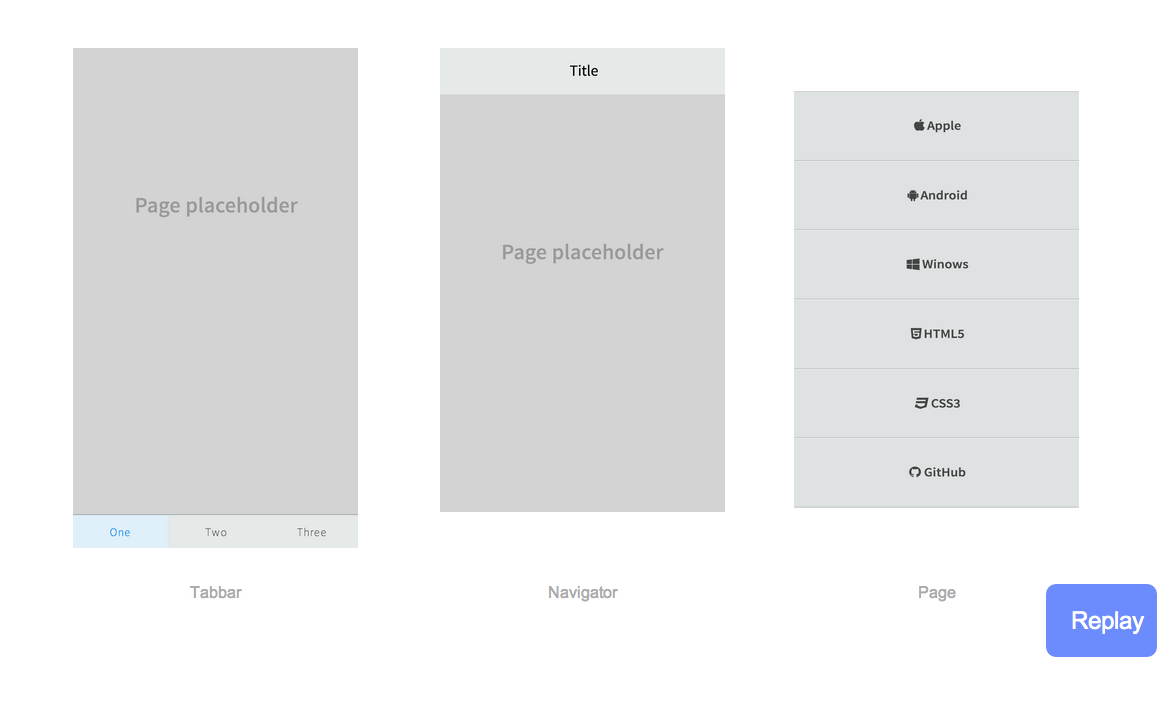
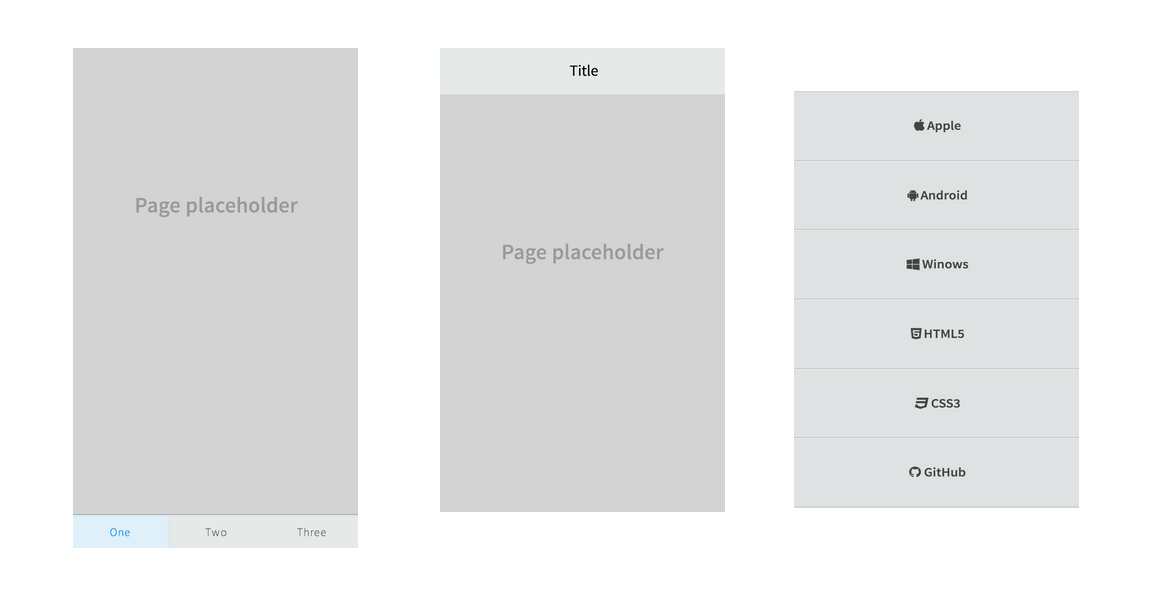
add navigator animation, and add more content to how it work page

diff --git a/src/documents/how_it_works/en/tabbar_navigator_page_animation/edge2_edgePreload.js b/src/documents/how_it_works/en/tabbar_navigator_page_animation/edge2_edgePreload.js
@@ -1,0 +1,16 @@
+
+window.AdobeEdge=window.AdobeEdge||{};if(!AdobeEdge.yepnope){(function(a,b,c){function d(a){return"[object Function]"==o.call(a)}function e(a){return"string"==typeof a}function f(){}function g(a){return!a||"loaded"==a||"complete"==a||"uninitialized"==a}function h(){var a=p.shift();q=1,a?a.t?m(function(){("c"==a.t?B.injectCss:B.injectJs)(a.s,0,a.a,a.x,a.e,1)},0):(a(),h()):q=0}function i(a,c,d,e,f,i,j){function k(b){if(!o&&g(l.readyState)&&(u.r=o=1,!q&&h(),l.onload=l.onreadystatechange=null,b)){"img"!=a&&m(function(){t.removeChild(l)},50);for(var d in y[c])y[c].hasOwnProperty(d)&&y[c][d].onload()}}var j=j||B.errorTimeout,l=b.createElement(a),o=0,r=0,u={t:d,s:c,e:f,a:i,x:j};1===y[c]&&(r=1,y[c]=[]),"object"==a?l.data=c:(l.src=c,l.type=a),l.width=l.height="0",l.onerror=l.onload=l.onreadystatechange=function(){k.call(this,r)},p.splice(e,0,u),"img"!=a&&(r||2===y[c]?(t.insertBefore(l,s?null:n),m(k,j)):y[c].push(l))}function j(a,b,c,d,f){return q=0,b=b||"j",e(a)?i("c"==b?v:u,a,b,this.i++,c,d,f):(p.splice(this.i++,0,a),1==p.length&&h()),this}function k(){var a=B;return a.loader={load:j,i:0},a}var l=b.documentElement,m=a.setTimeout,n=b.getElementsByTagName("script")[0],o={}.toString,p=[],q=0,r="MozAppearance"in l.style,s=r&&!!b.createRange().compareNode,t=s?l:n.parentNode,l=a.opera&&"[object Opera]"==o.call(a.opera),l=!!b.attachEvent&&!l,u=r?"object":l?"script":"img",v=l?"script":u,w=Array.isArray||function(a){return"[object Array]"==o.call(a)},x=[],y={},z={timeout:function(a,b){return b.length&&(a.timeout=b[0]),a}},A,B;B=function(a){function b(a){var a=a.split("!"),b=x.length,c=a.pop(),d=a.length,c={url:c,origUrl:c,prefixes:a},e,f,g;for(f=0;f<d;f++)g=a[f].split("="),(e=z[g.shift()])&&(c=e(c,g));for(f=0;f<b;f++)c=x[f](c);return c}function g(a,e,f,g,h){var i=b(a),j=i.autoCallback;i.url.split(".").pop().split("?").shift(),i.bypass||(e&&(e=d(e)?e:e[a]||e[g]||e[a.split("/").pop().split("?")[0]]),i.instead?i.instead(a,e,f,g,h):(y[i.url]?i.noexec=!0:y[i.url]=1,f.load(i.url,i.forceCSS||!i.forceJS&&"css"==i.url.split(".").pop().split("?").shift()?"c":c,i.noexec,i.attrs,i.timeout),(d(e)||d(j))&&f.load(function(){k(),e&&e(i.origUrl,h,g),j&&j(i.origUrl,h,g),y[i.url]=2})))}function h(a,b){function c(a,c){if(a){if(e(a))c||(j=function(){var a=[].slice.call(arguments);k.apply(this,a),l()}),g(a,j,b,0,h);else if(Object(a)===a)for(n in m=function(){var b=0,c;for(c in a)a.hasOwnProperty(c)&&b++;return b}(),a)a.hasOwnProperty(n)&&(!c&&!--m&&(d(j)?j=function(){var a=[].slice.call(arguments);k.apply(this,a),l()}:j[n]=function(a){return function(){var b=[].slice.call(arguments);a&&a.apply(this,b),l()}}(k[n])),g(a[n],j,b,n,h))}else!c&&l()}var h=!!a.test,i=a.load||a.both,j=a.callback||f,k=j,l=a.complete||f,m,n;c(h?a.yep:a.nope,!!i),i&&c(i)}var i,j,l=this.yepnope.loader;if(e(a))g(a,0,l,0);else if(w(a))for(i=0;i<a.length;i++)j=a[i],e(j)?g(j,0,l,0):w(j)?B(j):Object(j)===j&&h(j,l);else Object(a)===a&&h(a,l)},B.addPrefix=function(a,b){z[a]=b},B.addFilter=function(a){x.push(a)},B.errorTimeout=1e4,null==b.readyState&&b.addEventListener&&(b.readyState="loading",b.addEventListener("DOMContentLoaded",A=function(){b.removeEventListener("DOMContentLoaded",A,0),b.readyState="complete"},0)),a.yepnope=k(),a.yepnope.executeStack=h,a.yepnope.injectJs=function(a,c,d,e,i,j){var k=b.createElement("script"),l,o,e=e||B.errorTimeout;k.src=a;for(o in d)k.setAttribute(o,d[o]);c=j?h:c||f,k.onreadystatechange=k.onload=function(){!l&&g(k.readyState)&&(l=1,c(),k.onload=k.onreadystatechange=null)},m(function(){l||(l=1,c(1))},e),i?k.onload():n.parentNode.insertBefore(k,n)},a.yepnope.injectCss=function(a,c,d,e,g,i){var e=b.createElement("link"),j,c=i?h:c||f;e.href=a,e.rel="stylesheet",e.type="text/css";for(j in d)e.setAttribute(j,d[j]);g||(n.parentNode.insertBefore(e,n),m(c,0))}})(this,document);AdobeEdge.yepnope=window.yepnope;}
+(function(compId){var htFallbacks;var testEle=document.createElement("div");function isSupported(a){var d=testEle.style,e;for(i=0;i<a.length;i++)if(e=a[i],d[e]!==void 0)return!0;return!1}function supportsRGBA(){testEle.cssText="background-color:rgba(150,255,150,.5)";if((""+testEle.style.backgroundColor).indexOf("rgba")==0)return!0;return!1}
+var hasTransform=isSupported(["transformProperty","WebkitTransform","MozTransform","OTransform","msTransform"]),hasSVG=!!document.createElementNS&&!!document.createElementNS("http://www.w3.org/2000/svg","svg").createSVGRect,hasRGBA=supportsRGBA(),hasJSON=window.JSON&&window.JSON.parse&&window.JSON.stringify,readyToPlay=!1;function safeColor(a){a=""+a;if(!hasRGBA&&a.indexOf("rgba")==0){var d=a.lastIndexOf(",");d>0&&(a="rgb("+a.substring(5,d)+")")}return a}
+AdobeEdge._preloaders=AdobeEdge._preloaders||[];AdobeEdge._preloaders.push(function(){filesToLoad&&(loadResources(filesToLoad),filesToLoad=void 0)});function doLoadResources(){for(var a=0;a<AdobeEdge._preloaders.length;a++)AdobeEdge._preloaders[a]()}AdobeEdge._readyplayers=AdobeEdge._readyplayers||[];AdobeEdge._readyplayers.push(function(){readyToPlay&&AdobeEdge.okToLaunchComposition(compId)});function playWhenReady(){AdobeEdge._playWhenReady=!0;for(var a=0;a<AdobeEdge._readyplayers.length;a++)AdobeEdge._readyplayers[a]()}function edgeCallback(a){htFallbacks[a]&&(a=htFallbacks[a]);AdobeEdge.preload.got[a]=!0;if(a==AdobeEdge.preload.last)!AdobeEdge.bootstrapLoading||AdobeEdge._playWhenReady?AdobeEdge.okToLaunchComposition(compId):readyToPlay=!0,AdobeEdge.preload.busy=!1,AdobeEdge.preload.q.length>0&&(a=AdobeEdge.preload.q.pop(),AdobeEdge.requestResources(a.files,a.callback))}
+AdobeEdge.requestResources=AdobeEdge.requestResources||function(a,d){AdobeEdge.yepnope.errorTimeout=4E3;AdobeEdge.preload.busy=!0;AdobeEdge.preload.got=AdobeEdge.preload.got||{};var e,b=a.length,h=[],c;for(e=0;e<b;e++){c=a[e];if(typeof c==="string")url=c,c={load:url};else if(url=c.yep||c.load,c.callback){var k=c.callback;c.callback=function(a,b,c){k(a,b,c)&&d(a,b,c)}}if(!c.callback)c.callback=d;if(!AdobeEdge.preload.got[url])h.push(c),AdobeEdge.preload.last=url}h.length&&AdobeEdge.yepnope(h)};var filesToLoad,dlContent,preContent,doDelayLoad,signaledLoading,loadingEvt,requiresSVG,htLookup={},aLoader,aEffectors;function loadResources(a,d){AdobeEdge.preload=AdobeEdge.preload||[];AdobeEdge.preload.q=AdobeEdge.preload.q||[];d||!isCapable()?filesToLoad=a:AdobeEdge.preload.busy?AdobeEdge.preload.q.push({files:a,callback:edgeCallback}):AdobeEdge.requestResources(a,edgeCallback)}
+function splitUnits(a){var d={};d.num=parseFloat(a);if(typeof a=="string")d.units=a.match(/[a-zA-Z%]+$/);if(d.units&&typeof d.units=="object")d.units=d.units[0];return d}function defaultUnits(a){var d=a;if(a!=="auto"&&(a=splitUnits(a),!a||!a.units))d+="px";return d}function findNWC(a,d){if(String(a.className).indexOf(d)!=-1)return a;for(var e=a.childNodes,b=0;b<e.length;b++){var h=findNWC(e[b],d);if(h!=!1)return h}return!1}
+function simpleContent(a,d,e){var b=document.getElementsByTagName("body")[0],e=e||findNWC(b,compId),h,c,k,g;if(e){if(e.style.position!="absolute"&&e.style.position!="relative")e.style.position="relative"}else e=b;for(var m=0;m<a.length;m++){b=a[m];b.type=="image"?(h=document.createElement("img"),h.src=b.fill[1]):h=document.createElement("div");h.id=b.id;g=h.style;if(b.type=="text"){if(c=b.font){if(c[0]&&c[0]!=="")g.fontFamily=c[0];typeof c[1]!="object"&&(c[1]=[c[1]]);c[1][1]||(c[1][1]="px");if(c[1][0]&&c[1][0]!=="")g.fontSize=c[1][0]+c[1][1];if(c[2]&&c[2]!=="")g.color=safeColor(c[2]);if(c[3]&&c[3]!=="")g.fontWeight=c[3];if(c[4]&&c[4]!=="")g.textDecoration=b.font[4];if(c[5]&&c[5]!=="")g.fontStyle=b.font[5]}if(b.align&&b.align!="auto")g.textAlign=b.align;if(b.position)g.position=b.position;if((!b.rect[2]||b.rect[2]<=0)&&(!b.rect[3]||b.rect[3]<=0))g.whiteSpace="nowrap";h.innerHTML=b.text}if(d)h.className=d;g.position="absolute";c=b.rect[0];k=b.rect[1];if(b.transform&&b.transform[0]){var j=b.transform[0][0],f=splitUnits(j);if(f&&f.units&&(j=f.num,f.units=="%"&&b.rect[2])){var f=b.rect[2],l=splitUnits(b.rect[2]);if(l&&l.units)f=l.num,l.units=="%"&&(f=f/100*e.offsetWidth);j=j/100*f;e.offsetWidth>0&&(j=j/e.offsetWidth*100)}if(f=splitUnits(c))c=f.num;c+=j;if(!f.units)f.units="px";c+=f.units;if(b.transform[0].length>1){j=b.transform[0][1];if((f=splitUnits(j))&&f.units)if(j=f.num,f.units=="%"&&b.rect[3]){f=b.rect[3];if((l=splitUnits(b.rect[3]))&&l.units)f=l.num,l.units=="%"&&(f=f/100*e.offsetHeight);j=j/100*f;e.offsetHeight>0&&(j=j/e.offsetHeight*100)}if(f=splitUnits(k))k=f.num;k+=j;if(!f.units)f.units="px";k+=f.units}}g.left=defaultUnits(c);g.top=defaultUnits(k);g.width=defaultUnits(b.rect[2]);g.height=defaultUnits(b.rect[3]);if(b.linkURL)htLookup[h.id]=b,h.onclick=function(){var a=htLookup[this.id];a.linkTarget?window.open(a.linkURL,a.linkTarget):window.location.href=a.linkURL},g.cursor="pointer";e.appendChild(h);if(b.c)for(g=0;g<b.c.length;g++)simpleContent(b.c[g],d,h)}}
+var fnCycle=function(a){a?fnCycle&&setTimeout(fnCycle,20):a={event:"loading",progress:0};loadingEvt&&loadingEvt(a)},aBootcompsLoaded=[];if(!window.AdobeEdge.bootstrapListeners)window.AdobeEdge.bootstrapListeners=[];window.AdobeEdge.bootstrapCallback=function(a){window.AdobeEdge.bootstrapListeners.push(a);if(aBootcompsLoaded.length>0)for(var d=0;d<aBootcompsLoaded.length;d++)a(aBootcompsLoaded[d])};if(!window.AdobeEdge.preloadComplete)window.AdobeEdge.preloadComplete={};window.AdobeEdge.preloadComplete[compId]=function(a){AdobeEdge.$_(".edgePreload"+a).css("display","none");fnCycle=null;loadingEvt&&loadingEvt({event:"done",progress:1,reason:"complete"});aBootcompsLoaded.push(a);for(var d=window.AdobeEdge.bootstrapListeners.length,e=0;e<d;e++)try{window.AdobeEdge.bootstrapListeners[e](a)}catch(b){console.log("bootstrap error "+b)}};function isCapable(){if(hasTransform){if(requiresSVG&&!hasSVG)return!1;return!0}return!1}
+function onDocLoaded(){window.AdobeEdge.loaded=!0;fnCycle({event:"begin"});isCapable()?(preContent&&preContent.dom&&simpleContent(preContent.dom,"edgePreload"+compId),filesToLoad&&!signaledLoading&&(loadResources(filesToLoad),filesToLoad=void 0)):dlContent&&dlContent.dom&&(loadingEvt&&loadingEvt({event:"done",progress:1,reason:"downlevel"}),simpleContent(dlContent.dom))};window.AdobeEdge=window.AdobeEdge||{};window.AdobeEdge.framework='jquery';if(document.addEventListener){window.addEventListener("load",onDocLoaded,false);}else if(document.attachEvent){window.attachEvent("onload",onDocLoaded);}
+requiresSVG=false;doDelayLoad=false;htFallbacks={"edge_includes/jquery-1.7.1.min.js":"http://ajax.googleapis.com/ajax/libs/jquery/1.7.1/jquery.min.js","edge_includes/edge.2.0.1.min.js":"http://download.adobe.com/pub/adobe/edge/animate/2.0.1/edge.2.0.1.min.js"};aLoader=[{load:"http://ajax.googleapis.com/ajax/libs/jquery/1.7.1/jquery.min.js",callback:function(result,key){if(!window.jQuery){yepnope({load:"edge_includes/jquery-1.7.1.min.js",callback:edgeCallback});return false;}return true;}},{load:"http://download.adobe.com/pub/adobe/edge/animate/2.0.1/edge.2.0.1.min.js",callback:function(result,key){if(!window.AdobeEdge){yepnope({load:"edge_includes/edge.2.0.1.min.js",callback:edgeCallback});return false;}return true;}},{load:"edge2_edge.js"},{load:"edge2_edgeActions.js"}];if(AdobeEdge.bootstrapLoading){signaledLoading=true;AdobeEdge.loadResources=doLoadResources;AdobeEdge.playWhenReady=playWhenReady;}
+loadResources(aLoader,doDelayLoad);preContent={dom:[]};
+//simpleContent
+dlContent={dom:[]};
+//simpleContent
+})("EDGE-25584987");

diff --git a/src/documents/how_it_works/en/navigator_animation/navigator_edge.js b/src/documents/how_it_works/en/navigator_animation/navigator_edge.js
@@ -1,0 +1,2 @@
+
+(function($,Edge,compId){var _=null,y=true,n=false,x22='rgba(108,139,252,1.00)',e43='${_navigator_added_title_code}',x1='2.0.1',e47='${_Rectangle4}',a='Base State',x36='hidden',e56='${_page1html}',s='style',x26='13',x3='2.0.1.268',e30='${_Next}',x33='rgba(192,192,192,1)',e40='${_nav_title_highlight}',lf='left',bg='background-color',e49='${_page2html}',fs='font-size',tp='top',ta='text-align',xc='rgba(0,0,0,1)',x29='stage',t='transform',e41='${__32page_1}',c='color',x4='rgba(0,0,0,0)',x14='rgba(248,235,77,1)',g='image',x13='rgba(248,235,77,1.00)',e48='${_page_1_codeCopy}',x7='17',x28='19',x='text',e55='${_Text}',e51='${_navigator_added_title_codeCopy}',m='rect',e54='${_popPage}',e53='${__1navigator_no_title}',x2='2.0.0',e52='${_Rectangle3}',e50='${_nav_code_title_highlight}',e58='${_page_1_code}',x38='rgba(192,192,192,1.00)',e45='${_navigator_code}',e44='${_Toolbar_title}',p='px',x32='pointer',e42='${_Text5}',o='opacity',dt='Default Timeline',e39='${_NextBox}',e46='${_Rectangle}',x8='Arial, Helvetica, sans-serif',rz='rotateZ',l='normal',ov='overflow',po='center',e35='${_Stage}',x34='rgba(255,255,255,1)',x31='rgba(255,255,255,1.00)',w='width',e57='${__4page_2}',x24='24',ql='linear',i='none',e37='${_indexhtml}',r='deg',h='height';var im='images/';var g5='navigator_no_title.png',g19='page_2.png',g18='page_1.png';var s10="&lt;ons-navigator title=\"Page 1\" <br>page=\"page1.html\"/&gt;",s17="page2.html",s25="Page 1",s9="&lt;ons-navigator title=\"Page 1\" /&gt;",s27="&lt;",s6="&lt;ons-navigator /&gt;",s11="&lt;h2&gt;Hi I am Page 1&lt;/h2&gt;",s20="ons.navigator.pushPage<br>('page2.html', 'Page 2');",s23="1. Create Navigator",s16="page1.html",s15="index.html",s12="&lt;h2&gt;Hi I am Page 2&lt;/h2&gt;",s21="ons.navigator.popPage();";var fonts={};var P=Edge.P,T=Edge.T,A=Edge.A;var resources=[];var symbols={"stage":{v:x1,mv:x2,b:x3,bS:a,iS:a,gpu:n,rI:n,cn:{dom:[{id:'_1navigator_no_title',t:g,r:['61px','111px','236px','400px','auto','auto'],f:[x4,im+g5,'0px','0px']},{id:'navigator_code',t:x,r:['54px','32px','auto','auto','auto','auto'],text:s6,n:[x8,x7,xc,l,i,""]},{id:'navigator_added_title_code',t:x,r:['129px','32px','auto','auto','auto','auto'],text:s9,n:[x8,x7,xc,l,i,""]},{id:'navigator_added_title_codeCopy',t:x,r:['129px','32px','auto','auto','auto','auto'],text:s10,n:[x8,x7,xc,l,i,""]},{id:'page_1_code',t:x,r:['423px','59px','auto','auto','auto','auto'],o:1,text:s11,n:[x8,x7,xc,l,i,""]},{id:'page_1_codeCopy',t:x,r:['701px','58px','auto','auto','auto','auto'],o:1,text:s12,n:[x8,x7,xc,l,i,""]},{id:'nav_code_title_highlight',t:m,r:['172px','32px','102px','20px','auto','auto'],o:0.47982788085938,f:[x13],s:[0,"rgb(0, 0, 0)",i]},{id:'nav_title_highlight',t:m,r:['384px','122px','49px','20px','auto','auto'],f:[x14],s:[0,"rgb(0, 0, 0)",i]},{id:'indexhtml',t:x,r:['203px','11px','auto','auto','auto','auto'],text:s15,align:"left",n:[x8,x7,"rgba(192,192,192,1.00)",l,i,l]},{id:'page1html',t:x,r:['478px','11px','auto','auto','auto','auto'],text:s16,align:"left",n:[x8,x7,"rgba(192,192,192,1.00)",l,i,l]},{id:'page2html',t:x,r:['756px','11px','auto','auto','auto','auto'],text:s17,align:"left",n:[x8,x7,"rgba(192,192,192,1.00)",l,i,l]},{id:'_32page_1',t:g,r:['401px','153px','236px','359px','auto','auto'],f:[x4,im+g18,'0px','0px']},{id:'_4page_2',t:g,r:['679px','153px','236px','359px','auto','auto'],f:[x4,im+g19,'0px','0px']},{id:'Rectangle',t:m,r:['126px','77px','143px','20px','auto','auto'],f:[x14],s:[0,"rgb(0, 0, 0)",i]},{id:'Rectangle3',t:m,r:['176px','58px','132px','20px','auto','auto'],f:[x14],s:[0,"rgb(0, 0, 0)",i]},{id:'Rectangle4',t:m,r:['249px','57px','102px','20px','auto','auto'],f:[x14],s:[0,"rgb(0, 0, 0)",i]},{id:'Text',t:x,r:['152px','312px','auto','auto','auto','auto'],text:s20,align:"left",n:[x8,x7,xc,l,i,l]},{id:'popPage',t:x,r:['152px','312px','auto','auto','auto','auto'],text:s21,align:"left",n:[x8,x7,xc,l,i,l]},{id:'NextBox',t:m,r:['397px','540px','463px','49px','auto','auto'],br:["10px","10px","10px","10px"],f:[x22],s:[0,"rgb(0, 0, 0)",i]},{id:'Next',t:x,r:['399px','540px','452px','49px','auto','auto'],cu:['pointer'],text:s23,align:"center",n:[x8,x24,"rgba(255,255,255,1.00)",l,i,l],filter:[0,0,1,1,0,0,0,0,"rgba(0,0,0,0)",0,0,0],tf:[]},{id:'Toolbar_title',t:x,r:['224px','125px','49px','20px','auto','auto'],text:s25,align:"left",n:[x8,x26,xc,l,i,l]},{id:'Text5',t:x,r:['138px','122px','auto','auto','auto','auto'],text:s27,align:"left",n:[x8,x28,xc,l,i,l]}],sI:[]},s:{},tl:{"Default Timeline":{fS:a,tS:"",d:20500,a:n,tt:[]}}}};var S1=symbols[x29];var tl0=S1.tl[dt].tt,st1=S1.s[a]={},A1=A(_,tl0,st1);A1.A(e30).P("line-height",45).P(rz,0,t,_,r).P(c,x31,c).P(lf,399,_,_,p).P(w,452).P(tp,540).P(ta,po).P("filter.invert",0,"subproperty",_,"").P("cursor",x32).P(h,49,_,_,p);A1.A(e35).P(bg,x34,c).P(ov,x36).P(h,626).P(w,1001);A1.A(e37).P(tp,11).P(lf,203).P(c,x38,c);A1.A(e39).P(bg,x22,c).P(lf,397).P(w,463);A1.A(e40).P(lf,223).T(3.442,223).P(o,0,_,_,"").T(3.251,0.48,0.575,ql).T(3.825,0,0.425);A1.A(e41).P(tp,153).P(h,359).P(o,0,_,_,"").T(6.205,1,0.5,ql).P(lf,401,_,_,p).T(9.201,124,0.828).T(10.029,124).P(w,234).T(8.815,234);A1.A(e42).P(tp,122).P(lf,138).P(fs,19).P(o,0,_,_,"").T(17,1,0.356,ql).T(20,0,0.301);A1.A(e43).P(tp,58).P(fs,17).P(lf,124).T(3.418,124).P(o,0,_,_,"").T(2.528,1,0.571,ql).T(7.955,0,0.536);A1.A(e44).P(tp,125).P(fs,13).P(o,0,_,_,"").T(3.251,1,1.114,ql);A1.A(e45).P(tp,58).P(fs,17).P(lf,124).T(1,124).P(o,0,_,_,"").T(0.5,1,0.25,ql).T(2.25,0,0.528);A1.A(e46).P(tp,77).P(lf,126).P(o,0,_,_,"").T(8.103,0.37,0.423,ql).T(8.526,0.37,1.488).T(10.014,0,0.191);A1.A(e47).P(tp,57).P(lf,235).T(3.418,239,0.947,ql).T(4.365,245,0.178).P(o,0,_,_,"").T(2.778,0.41,0.061).T(4.543,0,0.207);A1.A(e48).P(tp,58).P(lf,701).P(fs,17).P(o,0,_,_,"").T(11.75,1,0.5,ql);A1.A(e49).P(tp,11).P(lf,756).P(c,x33,c).P(o,0,_,_,"").T(11.25,1,0.36,ql);A1.A(e50).P(bg,x13,c).P(tp,59).T(0.5,59).P(o,0,_,_,"").T(3.099,0.41,0.726,ql).T(3.825,0,0.425).P(lf,248,_,_,p).T(0.5,248);A1.A(e51).P(fs,17).P(tp,57).T(8.372,57).P(o,0,_,_,"").T(7.955,1,0.536,ql).P(lf,124,_,_,p).T(8.402,124);A1.A(e52).P(tp,58).P(lf,124).T(1.224,124).P(o,0,_,_,"").T(0.56,0.4,0.16,ql).T(0.72,0.43,0.882).T(1.602,0,0.148);A1.A(e53).P(tp,113).P(h,400).P(lf,124).P(w,236).P(o,0,_,_,"").T(0.916,1,0.407,ql);A1.A(e54).P(tp,312).P(lf,152).P(o,0,_,_,"").T(18,1,0.348,ql).T(20.117,0,0.301);A1.A(e55).P(tp,312).P(lf,152).P(o,0,_,_,"").T(13.711,0.73,0.354,ql).T(14.065,1,0.435).T(17.634,0,0.214);A1.A(e56).P(tp,11).P(lf,478).P(c,x33,c).P(o,0,_,_,"").T(5.455,1,0.5,ql);A1.A(e57).P(tp,153).P(h,359).P(o,0,_,_,"").T(12.5,1,0.5,ql).P(lf,679,_,_,p).T(15.107,124,1.643).T(19,679,1).P(w,236).T(15.107,235,1.643);A1.A(e58).P(tp,59).P(lf,423).P(fs,17).P(o,0,_,_,"").T(5.455,1,0.5,ql);Edge.registerCompositionDefn(compId,symbols,fonts,resources);$(window).ready(function(){Edge.launchComposition(compId);});})(jQuery,AdobeEdge,"EDGE-25584987");

diff --git a/src/documents/how_it_works/en/navigator_animation/navigator_edgePreload.js b/src/documents/how_it_works/en/navigator_animation/navigator_edgePreload.js
@@ -8,7 +8,7 @@ function splitUnits(a){var d={};d.num=parseFloat(a);if(typeof a=="string")d.unit
 function simpleContent(a,d,e){var b=document.getElementsByTagName("body")[0],e=e||findNWC(b,compId),h,c,k,g;if(e){if(e.style.position!="absolute"&&e.style.position!="relative")e.style.position="relative"}else e=b;for(var m=0;m<a.length;m++){b=a[m];b.type=="image"?(h=document.createElement("img"),h.src=b.fill[1]):h=document.createElement("div");h.id=b.id;g=h.style;if(b.type=="text"){if(c=b.font){if(c[0]&&c[0]!=="")g.fontFamily=c[0];typeof c[1]!="object"&&(c[1]=[c[1]]);c[1][1]||(c[1][1]="px");if(c[1][0]&&c[1][0]!=="")g.fontSize=c[1][0]+c[1][1];if(c[2]&&c[2]!=="")g.color=safeColor(c[2]);if(c[3]&&c[3]!=="")g.fontWeight=c[3];if(c[4]&&c[4]!=="")g.textDecoration=b.font[4];if(c[5]&&c[5]!=="")g.fontStyle=b.font[5]}if(b.align&&b.align!="auto")g.textAlign=b.align;if(b.position)g.position=b.position;if((!b.rect[2]||b.rect[2]<=0)&&(!b.rect[3]||b.rect[3]<=0))g.whiteSpace="nowrap";h.innerHTML=b.text}if(d)h.className=d;g.position="absolute";c=b.rect[0];k=b.rect[1];if(b.transform&&b.transform[0]){var j=b.transform[0][0],f=splitUnits(j);if(f&&f.units&&(j=f.num,f.units=="%"&&b.rect[2])){var f=b.rect[2],l=splitUnits(b.rect[2]);if(l&&l.units)f=l.num,l.units=="%"&&(f=f/100*e.offsetWidth);j=j/100*f;e.offsetWidth>0&&(j=j/e.offsetWidth*100)}if(f=splitUnits(c))c=f.num;c+=j;if(!f.units)f.units="px";c+=f.units;if(b.transform[0].length>1){j=b.transform[0][1];if((f=splitUnits(j))&&f.units)if(j=f.num,f.units=="%"&&b.rect[3]){f=b.rect[3];if((l=splitUnits(b.rect[3]))&&l.units)f=l.num,l.units=="%"&&(f=f/100*e.offsetHeight);j=j/100*f;e.offsetHeight>0&&(j=j/e.offsetHeight*100)}if(f=splitUnits(k))k=f.num;k+=j;if(!f.units)f.units="px";k+=f.units}}g.left=defaultUnits(c);g.top=defaultUnits(k);g.width=defaultUnits(b.rect[2]);g.height=defaultUnits(b.rect[3]);if(b.linkURL)htLookup[h.id]=b,h.onclick=function(){var a=htLookup[this.id];a.linkTarget?window.open(a.linkURL,a.linkTarget):window.location.href=a.linkURL},g.cursor="pointer";e.appendChild(h);if(b.c)for(g=0;g<b.c.length;g++)simpleContent(b.c[g],d,h)}}
 var fnCycle=function(a){a?fnCycle&&setTimeout(fnCycle,20):a={event:"loading",progress:0};loadingEvt&&loadingEvt(a)},aBootcompsLoaded=[];if(!window.AdobeEdge.bootstrapListeners)window.AdobeEdge.bootstrapListeners=[];window.AdobeEdge.bootstrapCallback=function(a){window.AdobeEdge.bootstrapListeners.push(a);if(aBootcompsLoaded.length>0)for(var d=0;d<aBootcompsLoaded.length;d++)a(aBootcompsLoaded[d])};if(!window.AdobeEdge.preloadComplete)window.AdobeEdge.preloadComplete={};window.AdobeEdge.preloadComplete[compId]=function(a){AdobeEdge.$_(".edgePreload"+a).css("display","none");fnCycle=null;loadingEvt&&loadingEvt({event:"done",progress:1,reason:"complete"});aBootcompsLoaded.push(a);for(var d=window.AdobeEdge.bootstrapListeners.length,e=0;e<d;e++)try{window.AdobeEdge.bootstrapListeners[e](a)}catch(b){console.log("bootstrap error "+b)}};function isCapable(){if(hasTransform){if(requiresSVG&&!hasSVG)return!1;return!0}return!1}
 function onDocLoaded(){window.AdobeEdge.loaded=!0;fnCycle({event:"begin"});isCapable()?(preContent&&preContent.dom&&simpleContent(preContent.dom,"edgePreload"+compId),filesToLoad&&!signaledLoading&&(loadResources(filesToLoad),filesToLoad=void 0)):dlContent&&dlContent.dom&&(loadingEvt&&loadingEvt({event:"done",progress:1,reason:"downlevel"}),simpleContent(dlContent.dom))};window.AdobeEdge=window.AdobeEdge||{};window.AdobeEdge.framework='jquery';if(document.addEventListener){window.addEventListener("load",onDocLoaded,false);}else if(document.attachEvent){window.attachEvent("onload",onDocLoaded);}
-requiresSVG=false;doDelayLoad=false;htFallbacks={"edge_includes/jquery-1.7.1.min.js":"http://ajax.googleapis.com/ajax/libs/jquery/1.7.1/jquery.min.js","edge_includes/edge.2.0.1.min.js":"http://download.adobe.com/pub/adobe/edge/animate/2.0.1/edge.2.0.1.min.js"};aLoader=[{load:"http://ajax.googleapis.com/ajax/libs/jquery/1.7.1/jquery.min.js",callback:function(result,key){if(!window.jQuery){yepnope({load:"edge_includes/jquery-1.7.1.min.js",callback:edgeCallback});return false;}return true;}},{load:"http://download.adobe.com/pub/adobe/edge/animate/2.0.1/edge.2.0.1.min.js",callback:function(result,key){if(!window.AdobeEdge){yepnope({load:"edge_includes/edge.2.0.1.min.js",callback:edgeCallback});return false;}return true;}},{load:"tabbar_navigator_concept_animation_edge.js"},{load:"tabbar_navigator_concept_animation_edgeActions.js"}];if(AdobeEdge.bootstrapLoading){signaledLoading=true;AdobeEdge.loadResources=doLoadResources;AdobeEdge.playWhenReady=playWhenReady;}
+requiresSVG=false;doDelayLoad=false;htFallbacks={"edge_includes/jquery-1.7.1.min.js":"http://ajax.googleapis.com/ajax/libs/jquery/1.7.1/jquery.min.js","edge_includes/edge.2.0.1.min.js":"http://download.adobe.com/pub/adobe/edge/animate/2.0.1/edge.2.0.1.min.js"};aLoader=[{load:"http://ajax.googleapis.com/ajax/libs/jquery/1.7.1/jquery.min.js",callback:function(result,key){if(!window.jQuery){yepnope({load:"edge_includes/jquery-1.7.1.min.js",callback:edgeCallback});return false;}return true;}},{load:"http://download.adobe.com/pub/adobe/edge/animate/2.0.1/edge.2.0.1.min.js",callback:function(result,key){if(!window.AdobeEdge){yepnope({load:"edge_includes/edge.2.0.1.min.js",callback:edgeCallback});return false;}return true;}},{load:"navigator_edge.js"},{load:"navigator_edgeActions.js"}];if(AdobeEdge.bootstrapLoading){signaledLoading=true;AdobeEdge.loadResources=doLoadResources;AdobeEdge.playWhenReady=playWhenReady;}
 loadResources(aLoader,doDelayLoad);preContent={dom:[]};
 //simpleContent
 dlContent={dom:[]};

diff --git a/src/documents/how_it_works/en/tabbar_navigator_page_animation/edge2_edge.js b/src/documents/how_it_works/en/tabbar_navigator_page_animation/edge2_edge.js
@@ -1,0 +1,2 @@
+
+(function($,Edge,compId){var _=null,y=true,n=false,e39='${_company_list}',x8='rgba(204,183,183,1.00)',x10='rgba(108,139,252,1.00)',c='color',x4='rgba(0,0,0,0)',e27='${_Text2}',g='image',x1='2.0.1',x18='rgba(232,232,232,1.00)',s='style',bg='background-color',e37='${_Text4}',e38='${_navigator_place_holder}',x25='rgba(170,170,170,1.00)',a='Base State',e36='${_navigator_but_bottojm2Copy}',lf='left',x='text',e41='${_navigator_but_bottojm2}',x34='hidden',m='rect',dt='Default Timeline',e33='${_Stage}',e31='${_tabbarCopy}',x3='2.0.1.268',i='none',x6='rgba(192,192,192,1)',e28='${_tabbar}',x32='rgba(255,255,255,1)',e30='${_Text2Copy}',e24='${_Text3}',e29='${_company_listCopy}',e26='${_ReplayBox}',fs='font-size',p='px',x21='rgba(110,148,227,1.00)',x23='rgba(255,255,255,1.00)',e35='${_Rectangle}',x13='Arial, Helvetica, sans-serif',o='opacity',l='normal',e40='${_tabbar_placeholder}',e22='${_ReplayText}',h='height',x20='rgba(224,150,150,1.00)',w='width',tp='top',x12='24',ql='linear',ov='overflow',xc='rgba(0,0,0,1)',x19='stage',x2='2.0.0';var im='images/';var g7='navigator_but_bottojm2.png',g9='company_list.png',g5='tabbar.png';var s14="Tabbar",s15="Result",s17="Page",s16="Navigator",s11="Play";var fonts={};var P=Edge.P,T=Edge.T,A=Edge.A;var resources=[];var symbols={"stage":{v:x1,mv:x2,b:x3,bS:a,iS:a,gpu:n,rI:n,cn:{dom:[{id:'tabbar',t:g,r:['177px','48px','181px','317px','auto','auto'],o:1,f:[x4,im+g5,'0px','0px']},{id:'tabbar_placeholder',t:m,r:['74px','49px','285px','464px','auto','auto'],f:[x6],s:[0,xc,i]},{id:'navigator_but_bottojm2',t:g,r:['440px','48px','285px','464px','auto','auto'],f:[x4,im+g7,'0px','0px']},{id:'navigator_place_holder',t:m,r:['549px','116px','285px','417px','auto','auto'],f:[x8],s:[0,"rgb(0, 0, 0)",i]},{id:'company_list',t:g,r:['794px','91px','285px','417px','auto','auto'],f:[x4,im+g9,'0px','0px']},{id:'ReplayBox',t:m,r:['852px','487px','119px','50px','auto','auto'],br:["10px","10px","10px","10px"],f:[x10],s:[0,"rgb(0, 0, 0)",i]},{id:'ReplayText',t:x,r:['885px','498px','auto','auto','auto','auto'],text:s11,n:[x13,x12,"rgba(255,255,255,1.00)",l,i,""]},{id:'Text2',t:x,r:['358px','437px','auto','auto','auto','auto'],text:s14,align:"left",n:[x13,x12,"rgba(67,67,67,1.00)",l,i,l]},{id:'Text2Copy',t:x,r:['98px','437px','auto','auto','auto','auto'],text:s15,align:"left",n:[x13,x12,"rgba(67,67,67,1.00)",l,i,l]},{id:'Text3',t:x,r:['610px','437px','auto','auto','auto','auto'],text:s16,align:"left",n:[x13,x12,"rgba(67,67,67,1)",l,i,l]},{id:'Text4',t:x,r:['866px','437px','auto','auto','auto','auto'],text:s17,align:"left",n:[x13,x12,"rgba(67,67,67,1)",l,i,l]},{id:'tabbarCopy',t:g,r:['30px','85px','181px','317px','auto','auto'],o:1,f:[x4,im+g5,'0px','0px']},{id:'navigator_but_bottojm2Copy',t:g,r:['30px','85px','285px','464px','auto','auto'],f:[x4,im+g7,'0px','0px']},{id:'company_listCopy',t:g,r:['30px','115px','285px','417px','auto','auto'],f:[x4,im+g9,'0px','0px']},{id:'Rectangle',t:m,r:['249px','86px','1px','317px','auto','auto'],f:[x18],s:[0,"rgb(0, 0, 0)",i]}],sI:[]},s:{},tl:{"Default Timeline":{fS:a,tS:"",d:6250,a:n,tt:[]}}}};var S1=symbols[x19];var tl0=S1.tl[dt].tt,st1=S1.s[a]={},A1=A(_,tl0,st1);A1.A(e22).P(tp,498).P(lf,885).P(c,x23,c);A1.A(e24).P(tp,437).P(c,x25,c).P(o,1,_,_,"").P(lf,610,_,_,p).P(fs,16);A1.A(e26).P(tp,487).P(h,50).P(bg,x10,c).P(lf,852).P(w,119);A1.A(e27).P(tp,437).P(c,x25,c).P(o,1,_,_,"").P(lf,358,_,_,p).P(fs,16);A1.A(e28).P(tp,85).P(h,317).P(o,1,_,_,"").P(lf,293,_,_,p).P(w,181);A1.A(e29).P(tp,115).P(h,265).P(o,1,_,_,"").P(lf,30,_,_,p).P(w,181);A1.A(e30).P(tp,437).P(c,x25,c).P(o,1,_,_,"").P(lf,98,_,_,p).P(fs,16);A1.A(e31).P(tp,85).P(h,317).P(o,1,_,_,"").P(lf,30,_,_,p).P(w,181);A1.A(e33).P(bg,x32,c).P(w,1001).P(h,578).P(ov,x34);A1.A(e35).P(bg,x18,c);A1.A(e36).P(tp,85).P(h,295).P(o,1,_,_,"").P(lf,30,_,_,p).P(w,181);A1.A(e37).P(tp,437).P(c,x25,c).P(o,1,_,_,"").P(lf,866,_,_,p).P(fs,16);A1.A(e38).P(bg,x20,c).P(h,264).P(w,179).P(tp,116).T(1.756,115,1.244,ql).P(o,0,_,_,"").T(3.75,0.46,0.633).P(lf,549,_,_,p).T(1.756,294,1.244);A1.A(e39).P(o,1,_,_,"").P(tp,116,_,_,p).T(5,115,1.25,ql).P(h,264).T(4.514,264).P(lf,791).T(5,294,1.25).P(w,180).T(4.514,180);A1.A(e40).P(bg,x21,c).P(tp,86).P(h,293).T(2.75,293).P(o,0,_,_,"").T(0.75,0.53,0.5,ql).P(lf,293,_,_,p).T(2.75,293).P(w,180).T(2.75,180);A1.A(e41).P(h,295).P(o,1,_,_,"").P(w,181,_,_,p).P(lf,548).T(1.756,293,1.244,ql).P(tp,86).T(1.756,85,1.244);Edge.registerCompositionDefn(compId,symbols,fonts,resources);$(window).ready(function(){Edge.launchComposition(compId);});})(jQuery,AdobeEdge,"EDGE-25584987");

diff --git a/src/documents/how_it_works/en/navigator_animation/index.html b/src/documents/how_it_works/en/navigator_animation/index.html
@@ -1,0 +1,42 @@
+<!DOCTYPE html>
+<html>
+<head>
+	<meta http-equiv="Content-Type" content="text/html; charset=utf-8">
+	<meta http-equiv="X-UA-Compatible" content="IE=Edge"/>
+	<title>Untitled</title>
+<!--Adobe Edge Runtime-->
+    <script type="text/javascript" charset="utf-8" src="navigator_edgePreload.js"></script>
+    <style>
+        .edgeLoad-EDGE-25584987 { visibility:hidden; }
+    </style>
+<!--Adobe Edge Runtime End-->
+
+</head>
+<body style="margin:0;padding:0;">
+	<div id="Stage" class="EDGE-25584987">
+	
+        <div id="Stage__1navigator_no_title" class="edgeLoad-EDGE-25584987"></div>
+        <div id="Stage_navigator_code" class="edgeLoad-EDGE-25584987">&lt;ons-navigator /&gt;</div>
+        <div id="Stage_navigator_added_title_code" class="edgeLoad-EDGE-25584987">&lt;ons-navigator title="Page 1" /&gt;</div>
+        <div id="Stage_navigator_added_title_codeCopy" class="edgeLoad-EDGE-25584987">&lt;ons-navigator title="Page 1" <br>page="page1.html"/&gt;</div>
+        <div id="Stage_page_1_code" class="edgeLoad-EDGE-25584987">&lt;h2&gt;Hi I am Page 1&lt;/h2&gt;</div>
+        <div id="Stage_page_1_codeCopy" class="edgeLoad-EDGE-25584987">&lt;h2&gt;Hi I am Page 2&lt;/h2&gt;</div>
+        <div id="Stage_nav_code_title_highlight" class="edgeLoad-EDGE-25584987"></div>
+        <div id="Stage_nav_title_highlight" class="edgeLoad-EDGE-25584987"></div>
+        <div id="Stage_indexhtml" class="edgeLoad-EDGE-25584987">index.html</div>
+        <div id="Stage_page1html" class="edgeLoad-EDGE-25584987">page1.html</div>
+        <div id="Stage_page2html" class="edgeLoad-EDGE-25584987">page2.html</div>
+        <div id="Stage__32page_1" class="edgeLoad-EDGE-25584987"></div>
+        <div id="Stage__4page_2" class="edgeLoad-EDGE-25584987"></div>
+        <div id="Stage_Rectangle" class="edgeLoad-EDGE-25584987"></div>
+        <div id="Stage_Rectangle3" class="edgeLoad-EDGE-25584987"></div>
+        <div id="Stage_Rectangle4" class="edgeLoad-EDGE-25584987"></div>
+        <div id="Stage_Text" class="edgeLoad-EDGE-25584987">ons.navigator.pushPage<br>('page2.html', 'Page 2');</div>
+        <div id="Stage_popPage" class="edgeLoad-EDGE-25584987">ons.navigator.popPage();</div>
+        <div id="Stage_NextBox" class="edgeLoad-EDGE-25584987"></div>
+        <div id="Stage_Next" class="edgeLoad-EDGE-25584987">1. Create Navigator</div>
+        <div id="Stage_Toolbar_title" class="edgeLoad-EDGE-25584987">Page 1</div>
+        <div id="Stage_Text5" class="edgeLoad-EDGE-25584987">&lt;</div>
+    </div>
+</body>
+</html>

diff --git a/src/documents/how_it_works/en/navigator_animation/navigator_edgeActions.js b/src/documents/how_it_works/en/navigator_animation/navigator_edgeActions.js
@@ -1,0 +1,32 @@
+
+(function($,Edge,compId){var Composition=Edge.Composition,Symbol=Edge.Symbol;
+//Edge symbol: 'stage'
+(function(symbolName){Symbol.bindTriggerAction(compId,symbolName,"Default Timeline",2375,function(sym,e){sym.stop();sym.$("Next").html("2. Set Toolbar's title");});
+//Edge binding end
+Symbol.bindElementAction(compId,symbolName,"${_Next}","click",function(sym,e){sym.play();});
+//Edge binding end
+Symbol.bindTriggerAction(compId,symbolName,"Default Timeline",5359,function(sym,e){sym.stop();sym.$("Next").html("3. Create Page 1");});
+//Edge binding end
+Symbol.bindTriggerAction(compId,symbolName,"Default Timeline",7750,function(sym,e){sym.stop();sym.$("Next").html("4. Link Page 1 to Navigator");});
+//Edge binding end
+Symbol.bindTriggerAction(compId,symbolName,"Default Timeline",10864,function(sym,e){sym.stop();sym.$("Next").html("5. Create Page 2");});
+//Edge binding end
+Symbol.bindTriggerAction(compId,symbolName,"Default Timeline",13500,function(sym,e){sym.stop();sym.$("Next").html("6. Push Page 2 to Navigator's stack");});
+//Edge binding end
+Symbol.bindTriggerAction(compId,symbolName,"Default Timeline",17000,function(sym,e){sym.$("Toolbar_title").html("Page 2");});
+//Edge binding end
+Symbol.bindTriggerAction(compId,symbolName,"Default Timeline",17750,function(sym,e){sym.stop();sym.$("Next").html("7. Pop a page from Navigator");});
+//Edge binding end
+Symbol.bindTriggerAction(compId,symbolName,"Default Timeline",20301,function(sym,e){sym.$("Toolbar_title").html("Page 1");sym.$("Next").html("Restart");sym.stop();});
+//Edge binding end
+Symbol.bindTriggerAction(compId,symbolName,"Default Timeline",20500,function(sym,e){sym.stop(0);});
+//Edge binding end
+Symbol.bindTriggerAction(compId,symbolName,"Default Timeline",0,function(sym,e){sym.$("Next").html("1. Create Navigator");});
+//Edge binding end
+Symbol.bindElementAction(compId,symbolName,"${_Next}","mouseover",function(sym,e){var element=sym.$("NextBox");element.css('backgroundColor','#8aa3ff');});
+//Edge binding end
+Symbol.bindElementAction(compId,symbolName,"${_Next}","mouseleave",function(sym,e){var element=sym.$("NextBox");element.css('backgroundColor','#6c8bfc');});
+//Edge binding end
+})("stage");
+//Edge symbol end:'stage'
+})(jQuery,AdobeEdge,"EDGE-25584987");

diff --git a/src/documents/how_it_works/en/tabbar_navigator_page_animation/index.html b/src/documents/how_it_works/en/tabbar_navigator_page_animation/index.html
@@ -5,7 +5,7 @@
 	<meta http-equiv="X-UA-Compatible" content="IE=Edge"/>
 	<title>Untitled</title>
 <!--Adobe Edge Runtime-->
-    <script type="text/javascript" charset="utf-8" src="tabbar_navigator_concept_animation_edgePreload.js"></script>
+    <script type="text/javascript" charset="utf-8" src="edge2_edgePreload.js"></script>
     <style>
         .edgeLoad-EDGE-25584987 { visibility:hidden; }
     </style>
@@ -20,13 +20,16 @@
         <div id="Stage_navigator_but_bottojm2" class="edgeLoad-EDGE-25584987"></div>
         <div id="Stage_navigator_place_holder" class="edgeLoad-EDGE-25584987"></div>
         <div id="Stage_company_list" class="edgeLoad-EDGE-25584987"></div>
-        <div id="Stage_Group" class="edgeLoad-EDGE-25584987">
-            <div id="Stage_ReplayBox" class="edgeLoad-EDGE-25584987"></div>
-            <div id="Stage_ReplayText" class="edgeLoad-EDGE-25584987">Replay</div>
-        </div>
+        <div id="Stage_ReplayBox" class="edgeLoad-EDGE-25584987"></div>
+        <div id="Stage_ReplayText" class="edgeLoad-EDGE-25584987">Play</div>
         <div id="Stage_Text2" class="edgeLoad-EDGE-25584987">Tabbar</div>
+        <div id="Stage_Text2Copy" class="edgeLoad-EDGE-25584987">Result</div>
         <div id="Stage_Text3" class="edgeLoad-EDGE-25584987">Navigator</div>
         <div id="Stage_Text4" class="edgeLoad-EDGE-25584987">Page</div>
+        <div id="Stage_tabbarCopy" class="edgeLoad-EDGE-25584987"></div>
+        <div id="Stage_navigator_but_bottojm2Copy" class="edgeLoad-EDGE-25584987"></div>
+        <div id="Stage_company_listCopy" class="edgeLoad-EDGE-25584987"></div>
+        <div id="Stage_Rectangle" class="edgeLoad-EDGE-25584987"></div>
     </div>
 </body>
 </html>

diff --git a/src/documents/styles/layout.css b/src/documents/styles/layout.css
@@ -1,6 +1,6 @@
 body {
 	background-color: #F7F7F9;
-	overflow: auto;
+	overflow: hidden;
 }
 
 .right-side {

diff --git a/src/partials/how_it_work.html.md b/src/partials/how_it_work.html.md
@@ -1,0 +1,113 @@
+---
+encoding: 'utf-8'
+---
+
+# How things is put together
+
+Onsen UI make building application simple using one thing every web developer already know, the tag.
+
+
+## Page management
+
+Onsen UI provides some tags for managing pages. Those tags include screen, navigator, tabbar, and sliding-menu. Each have different UI and page placeholders. For illustration, see how to use navigator below.
+
+
+### How to use Navigator
+
+Navigator provides a toolbar and a page placeholder. The toolbar has left button, right button, and title accessible via attributes. 
+
+
+E.g. to set the title to "Page 1", we would write:
+
+    <ons-navigator title="Page 1" />
+
+
+To link a page to the placeholder, we would add **page="PAGE_URL"**:
+
+    <ons-navigator title="Page 1" page="page1.html" />
+
+To push another page to the navigator's page stack, we would use:
+
+    ons.navigator.pushPage('page2.html', 'Page 2');
+
+*Notice:*
+Notice how Navigator provice transition animation, toolbar's title and back button management for free.
+
+To pop the last page out of navigator's page stack, we would use:
+
+    ons.navigator.popPage();
+
+#### See it in action
+
+<iframe width="100%" height="650px" src="navigator_animation"></iframe>
+
+## Creating complex UI easily by combining page management tags
+
+In the **How to use Navigator** section, we showed you how easy it is to use Navigator to manage pages and toolbar.
+
+But you are not limitted to that. You may combine Navigator with other page management tags to create complex UI with ease.
+
+To illustrate that, let's look at example below where we put a page inside Navigator, and put Navigator inside Tabbar.
+
+### Tabbar, Navigator, and Page
+
+*index.html*
+
+    <ons-tabbar>
+        <ons-tabbar-item active="true" page="navigator.html">
+            One
+        </ons-tabbar-item> 
+        <ons-tabbar-item  page="">
+            Two
+        </ons-tabbar-item> 
+        <ons-tabbar-item page="">
+            Three
+        </ons-tabbar-item> 
+    </ons-tabbar>
+
+
+*navigator.html*
+
+    <ons-navigator title="Title" page="page1.html" />
+
+
+*company_list.html*
+
+    <div class='page'>
+        <monaca-list class="center">
+            <monaca-list-item>
+                <h3><i class="icon-apple"></i> Apple</h3>
+            </monaca-list-item>
+
+            <monaca-list-item>
+                <h3><i class="icon-android"></i> Android</h3>
+            </monaca-list-item>
+
+            <monaca-list-item>
+                <h3><i class="icon-windows"></i> Winows</h3>
+            </monaca-list-item>         
+
+            <monaca-list-item>
+                <h3><i class="icon-html5"></i> HTML5</h3>
+            </monaca-list-item>
+
+            <monaca-list-item>
+                <h3><i class="icon-css3"></i> CSS3</h3>
+            </monaca-list-item>         
+
+            <monaca-list-item>
+                <h3><i class="icon-github"></i> GitHub</h3>
+            </monaca-list-item>             
+        </monaca-list>      
+    </div>
+
+#### See it in action
+
+<iframe width="100%" height="650px" src="tabbar_navigator_page_animation"></iframe>
+
+
+### Try other combinations
+
+Different combination, produces different UI. In the example above, instead of putting the Navigator inside Tabbar, you may instead put the Tabbar inside Navigator. 
+
+You will see the different when you push a new page to the navigator.

diff --git a/src/documents/getting_started/en/index.html.md b/src/documents/getting_started/en/index.html.md
@@ -1,0 +1,9 @@
+---
+layout: 'default'
+title: 'Docs'
+encoding: 'utf-8'
+---
+
+# Building in progress
+
+Please come back later.
